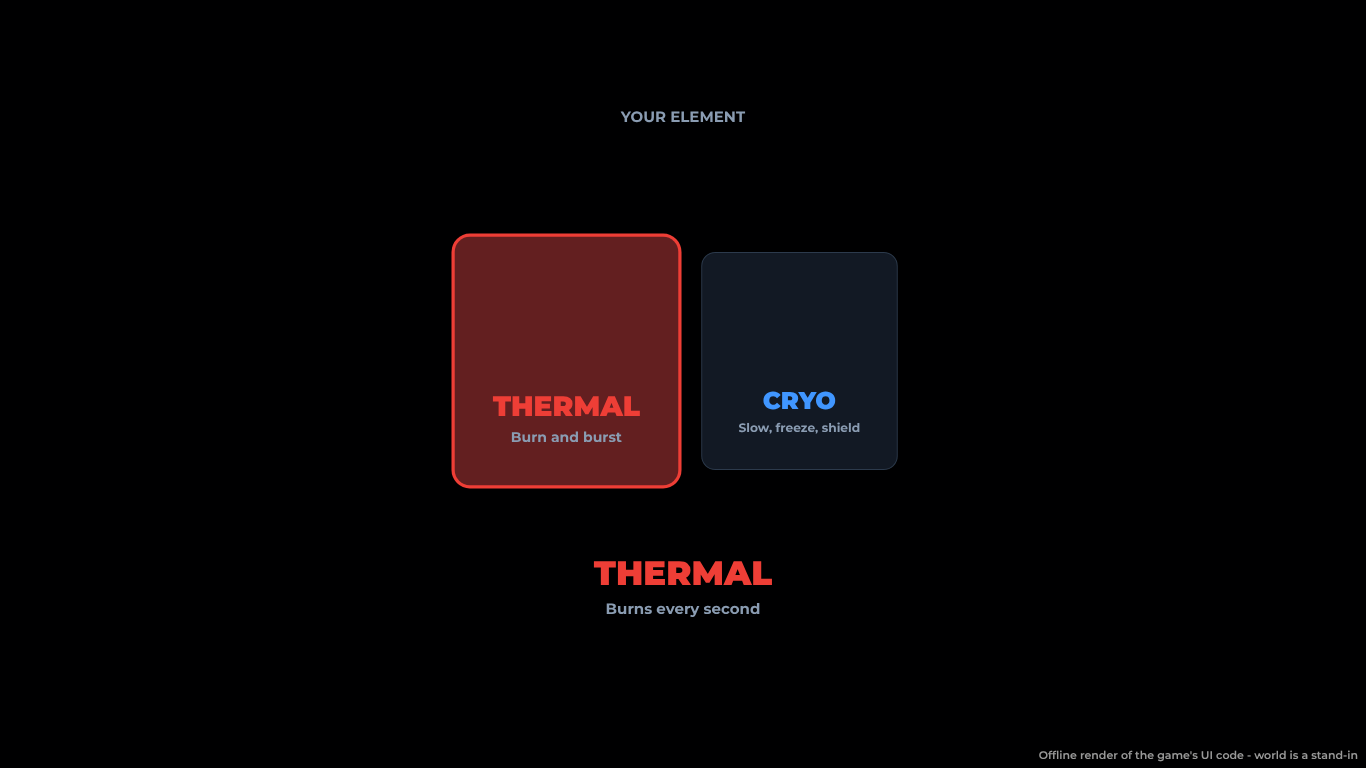
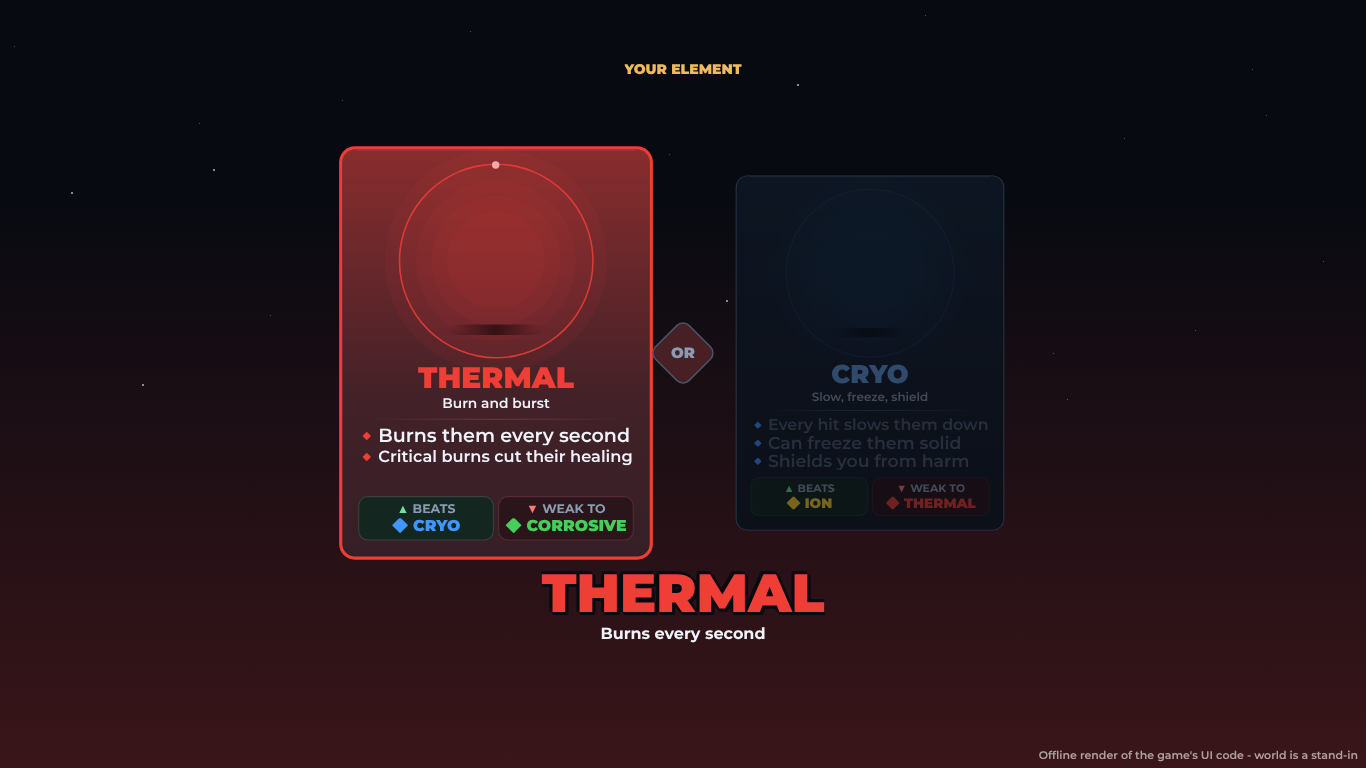
Intro element roll restyled; Prospector armor by default, never shown
The Thermal / Cryo roll now uses the picker's own element cards (the gem
on its lit stage, what it does, BEATS / WEAK TO tiles), side by side with
an OR diamond between them. The lit card's edge runs with its element's
energy (ElementCardFX), its gem turns faster, the screen floods with its
colour, and each step pops. Landing: a flash, a ring of light, the card
pops while the other steps back, and the name big under them with what
its hits do. Cards stay tall on phones.

Everyone starts in Prospector armor (FastStart.DefaultStyle); the style
is never shown.

Claude-Session: https://claude.ai/code/session_01M9AaiFqQ2dWL5tTu8tuKaL

diff --git a/docs/intro.md b/docs/intro.md
@@ -7,7 +7,7 @@ and nothing else. No picker, no kaiju:
    elements, **Thermal** and **Cryo**, flicks between them and lands on
    the one the server rolled (`FastStart.rollElement`, Systems/Intro:
    whatever the client sends, a new kit gets a random one of the two, in
-   the default Skirmisher style). YOUR ELEMENT, its name and what its hits
+   Prospector armor, never shown: no style picker). YOUR ELEMENT, its name and what its hits
    do, then on by itself after a beat. A roll that fails says so and
    offers RETRY.
 2. **The surge roll** (unchanged): Q, E and R's gems spin and crack open,
@@ -55,4 +55,14 @@ there behind `FastStart.Pick` (off): its screens are `style-picker.png` and
 | `run_kaiju` | an owed roll is never handed out without the roll showing; claimed, it's the team |
 | `run_outpost` | Wren's options fit the dialogue's five rows either way |
 
-![The element roll: Thermal or Cryo, landed (an offline render: the gems turn in the cards in the game)](intro/element-roll.png)
+*2026-10-30, restyled:* the roll uses the picker's own element cards
+(the gem on its lit stage, what it does, BEATS / WEAK TO), side by side
+with OR between them. The lit one's edge runs with its element's energy
+(ElementCardFX) and the screen floods with its colour; it lands with a
+flash, a ring of light and the name big under the cards, the other card
+stepping back. Prospector armor is everyone's (`FastStart.DefaultStyle`),
+never shown.
+
+![The element roll, landed (an offline render: the gems turn in the cards in the game)](intro/element-roll.png)
+
+![On a phone](intro/element-roll-phone.png)
